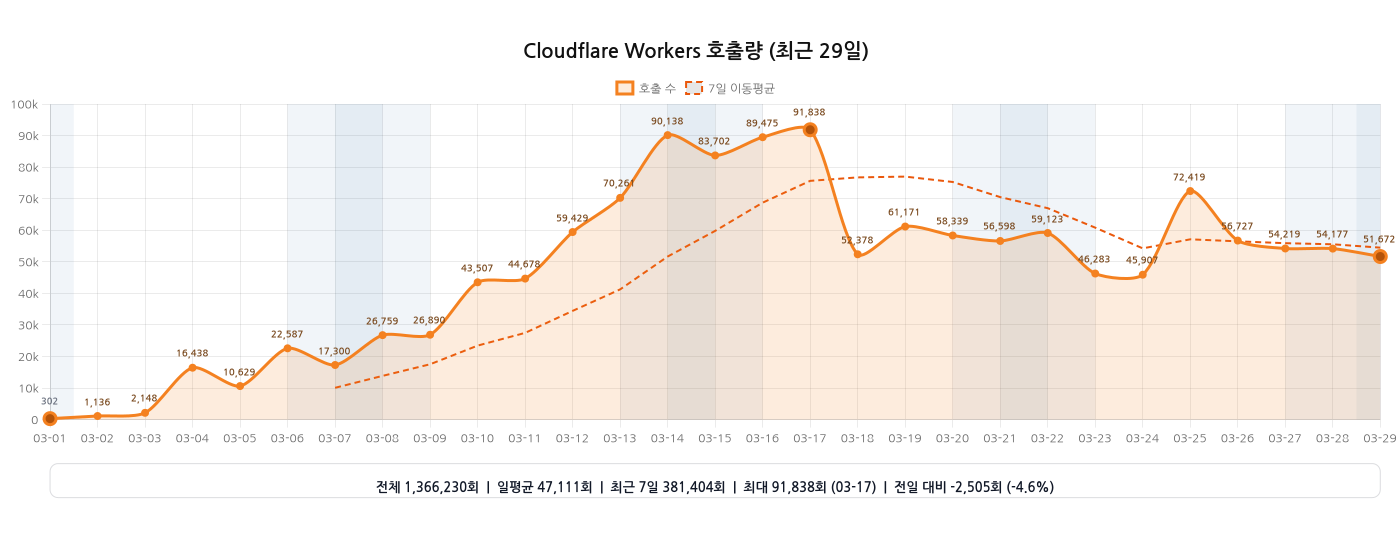
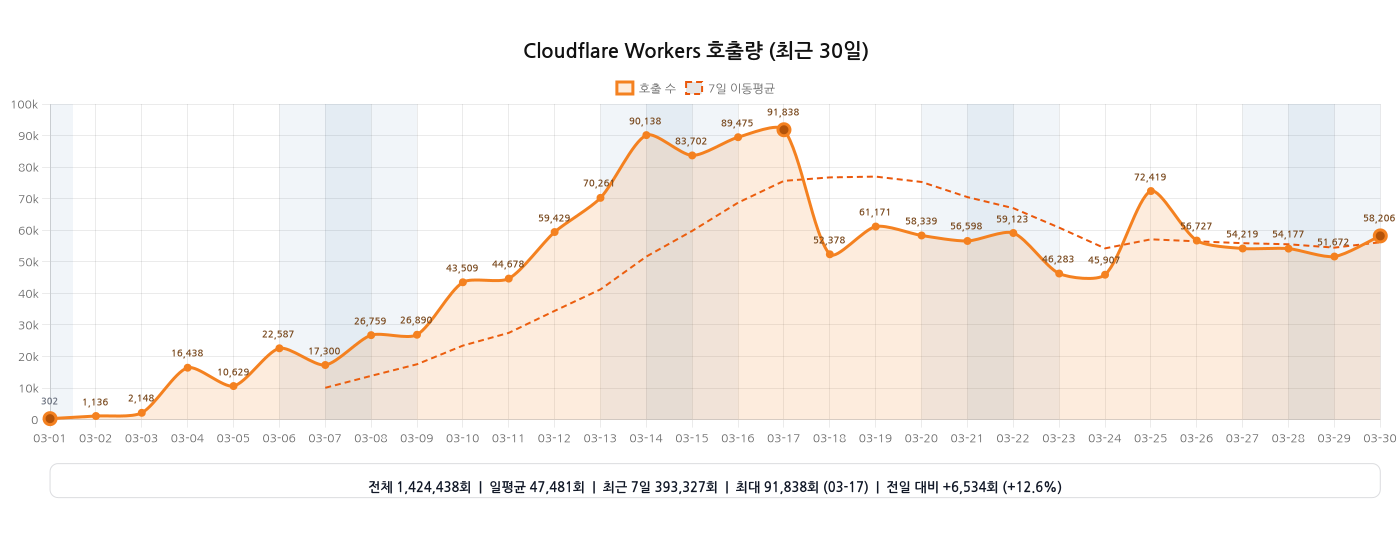
chore: 워커 호출량 그래프 자동 갱신

diff --git a/README.md b/README.md
@@ -18,11 +18,11 @@
 [![Coverage](https://github.com/hmmhmmhm/daiso-mcp/actions/workflows/coverage.yml/badge.svg?branch=main)](https://github.com/hmmhmmhm/daiso-mcp/actions/workflows/coverage.yml)
 
 <!-- WORKERS_INVOCATIONS_CHART:START -->
-<h3>Cloudflare Workers 호출량 (2026-03-01 ~ 2026-03-29, 29일)</h3>
+<h3>Cloudflare Workers 호출량 (2026-03-01 ~ 2026-03-30, 30일)</h3>
 
-<img src="./assets/analytics/workers-invocations.png?v=2026-03-29T15:32:54.196Z" alt="Cloudflare Workers 호출량 그래프 (2026-03-01 ~ 2026-03-29)" width="100%">
+<img src="./assets/analytics/workers-invocations.png?v=2026-03-30T15:49:38.161Z" alt="Cloudflare Workers 호출량 그래프 (2026-03-01 ~ 2026-03-30)" width="100%">
 
-<sub>기준 워커: <code>daiso-mcp</code> · 마지막 갱신: 2026-03-30 00:32 KST</sub>
+<sub>기준 워커: <code>daiso-mcp</code> · 마지막 갱신: 2026-03-31 00:49 KST</sub>
 
 <!-- WORKERS_INVOCATIONS_CHART:END -->
 
